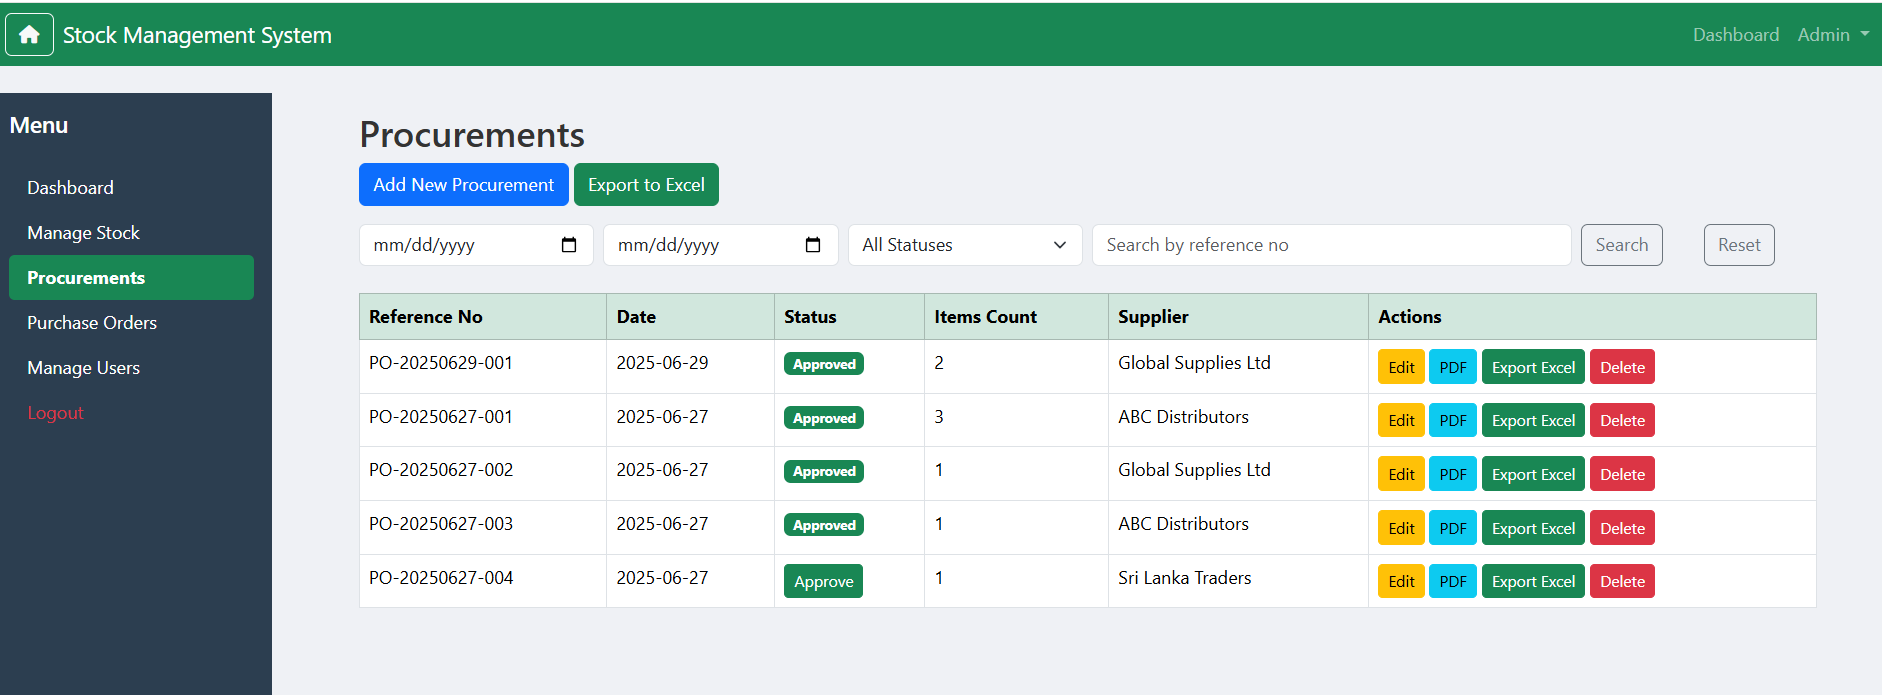
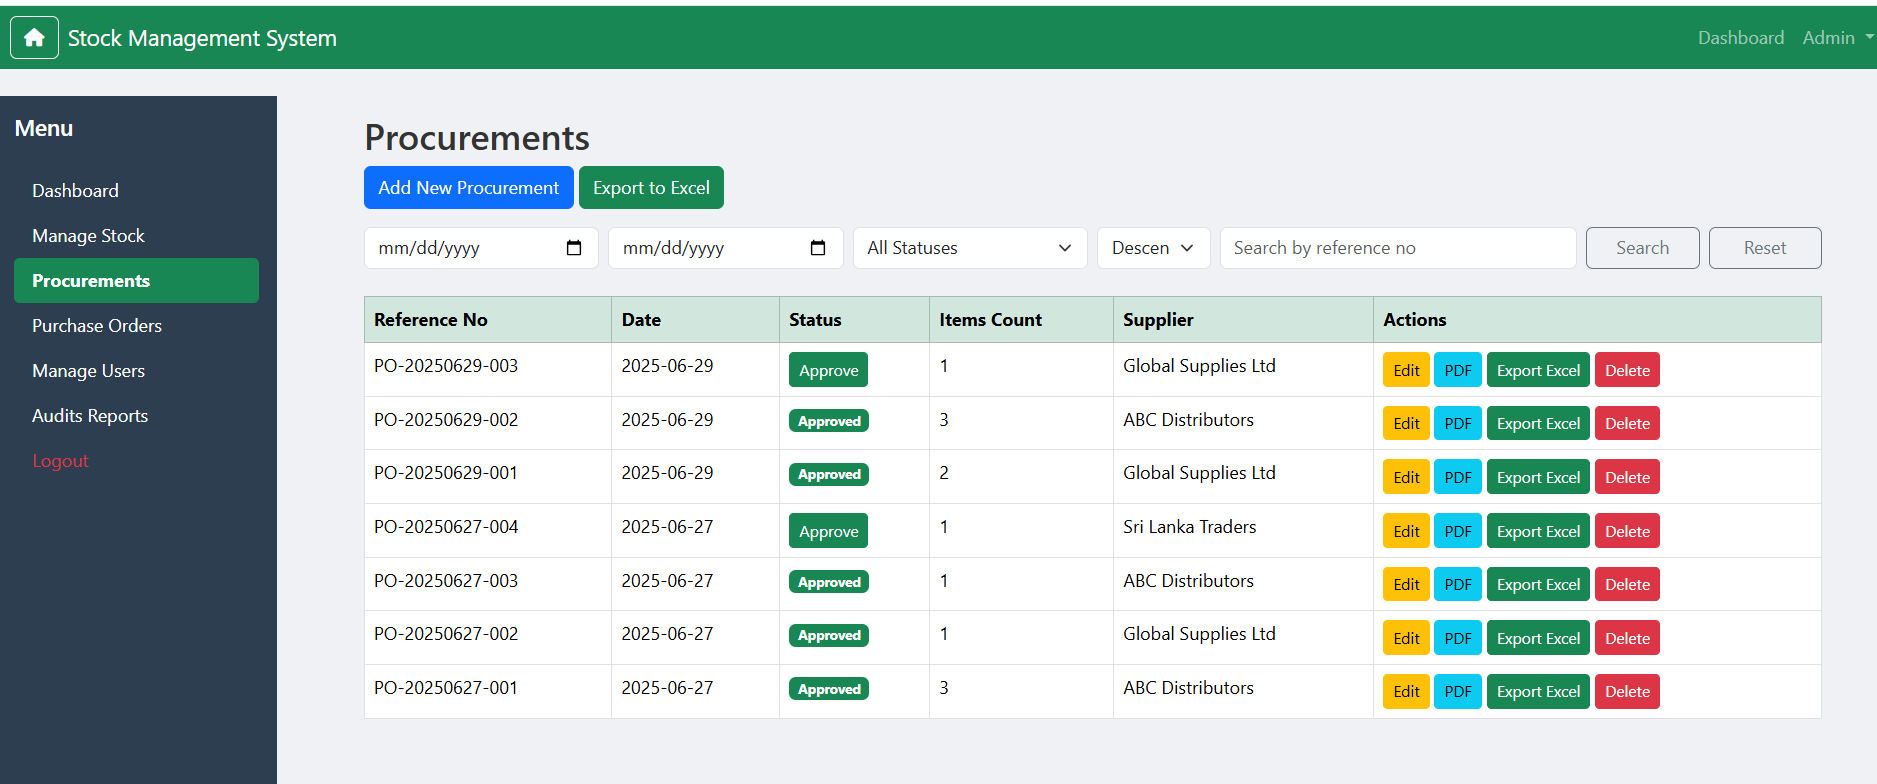
readme file add

diff --git a/resources/views/procurements/index.blade.php b/resources/views/procurements/index.blade.php
@@ -5,7 +5,7 @@
     <h2>Procurements</h2>
 
     <a href="{{ route('procurements.create') }}" class="btn btn-primary mb-3">Add New Procurement</a>
-    <a href="{{ route('procurements.export.excel') }}" class="btn btn-success mb-3">Export to Excel</a>
+    <a href="{{ route('procurements.export.excel', request()->query()) }}" class="btn btn-success mb-3">Export to Excel</a>
 
     @if(session('success'))
         <div class="alert alert-success">{{ session('success') }}</div>
@@ -29,15 +29,22 @@
             </select>
         </div>
 
-            <div class="col-md-4">
+        <div class="col-md-1">
+            <select name="sort_dir" id="sort_dir" class="form-select">
+                <option value="desc" {{ request('sort_dir') == 'desc' ? 'selected' : '' }}>Descending</option>
+                <option value="asc" {{ request('sort_dir') == 'asc' ? 'selected' : '' }}>Ascend</option>
+           </select>
+        </div>
+
+            <div class="col-md-3">
             <input type="text" name="search" class="form-control" placeholder="Search by reference no" value="{{ request('search') }}">
         </div>
 
-        <div class="col-md-1">
+        <div class="col-md-1 d-grid">
             <button type="submit" class="btn btn-outline-secondary">Search</button>
         </div>
 
-        <div class="col-md-1">
+        <div class="col-md-1 d-grid">
             <a href="{{ route('procurements.index') }}" class="btn btn-outline-secondary">Reset</a>
         </div>
     </form>
@@ -103,7 +110,7 @@
 @push('scripts')
 <script>
     $(document).ready(function() {
-        $('#status').on('change', function() {
+        $('#status, #sort_dir').on('change', function() {
             $(this).closest('form').submit();
         });
 

diff --git a/app/Http/Controllers/ProcurementController.php b/app/Http/Controllers/ProcurementController.php
@@ -21,8 +21,10 @@ class ProcurementController extends Controller
         $status = $request->input('status');
         $startDate = $request->input('start_date');
         $endDate = $request->input('end_date');
+        $sort_by = $request->get('sort_by', 'created_at');
+        $sort_dir = $request->get('sort_dir', 'desc');
 
-        $procurements = $this->procurementService->searchAndPaginate($search, $perPage = 10, $status, $startDate, $endDate);
+        $procurements = $this->procurementService->searchAndPaginate($search, $perPage = 10, $status, $startDate, $endDate, $sort_by, $sort_dir);
 
         return view('procurements.index', compact('procurements', 'search', 'status', 'startDate', 'endDate'));
     }
@@ -98,9 +100,15 @@ class ProcurementController extends Controller
         return $pdf->download("procurements-{$procurement->reference_no}.pdf");
     }
 
-    public function exportExcel()
+    public function exportExcel(Request $request)
     {
-        $procurement = $this->procurementService->allProcurementWithItems();
+        $search = $request->input('search');
+        $status = $request->input('status');
+        $startDate = $request->input('start_date');
+        $endDate = $request->input('end_date');
+        $sort_by = $request->get('sort_by', 'created_at');
+        $sort_dir = $request->get('sort_dir', 'desc');
+        $procurement = $this->procurementService->searchAndPaginate($search, $perPage = null, $status, $startDate, $endDate, $sort_by, $sort_dir);
         $fileName = 'Procurement_' . now()->format('Ymdhis') . '.xlsx';
         return Excel::download(new ProcurementExport($procurement), $fileName);
     }

diff --git a/resources/views/audits/index.blade.php b/resources/views/audits/index.blade.php
@@ -12,13 +12,20 @@
             <input type="date" name="end_date" class="form-control" value="{{ request('end_date') }}" placeholder="End Date">
         </div>
 
-        <div class="col-md-2">
+        <div class="col-md-1">
             <select name="event" id="event" class="form-select">
                 <option value="">All Events</option>
                 <option value="created" {{ request('event') == 'created' ? 'selected' : '' }}>Created</option>
                 <option value="updated" {{ request('event') == 'updated' ? 'selected' : '' }}>Updated</option>
                 <option value="deleted" {{ request('event') == 'deleted' ? 'selected' : '' }}>Deleted</option>
             </select>
+        </div> 
+
+        <div class="col-md-1">
+            <select name="sort_dir" id="sort_dir" class="form-select">
+                <option value="desc" {{ request('sort_dir') == 'desc' ? 'selected' : '' }}>Descending</option>
+                <option value="asc" {{ request('sort_dir') == 'asc' ? 'selected' : '' }}>Ascend</option>
+           </select>
         </div>
         
         <div class="col-md-2">
@@ -73,7 +80,7 @@
 @push('scripts')
 <script>
     $(document).ready(function() {
-        $('#event').on('change', function() {
+        $('#event, #sort_dir').on('change', function() {
             $(this).closest('form').submit();
         });
 

diff --git a/app/Http/Controllers/StockItemController.php b/app/Http/Controllers/StockItemController.php
@@ -21,7 +21,10 @@ class StockItemController extends Controller
         $status = $request->input('status');
         $startDate = $request->input('start_date');
         $endDate = $request->input('end_date');
-        $items = $this->service->searchAndPaginate($search, $perPage = 10, $status, $startDate, $endDate);
+        $sort_by = $request->get('sort_by', 'created_at');
+        $sort_dir = $request->get('sort_dir', 'desc');
+
+        $items = $this->service->searchAndPaginate($search, $perPage = 10, $status, $startDate, $endDate, $sort_by, $sort_dir);
         return view('stock.index', compact('items', 'search', 'startDate', 'endDate', 'status'));
     }
 
@@ -79,7 +82,9 @@ class StockItemController extends Controller
         $status = $request->input('status');
         $startDate = $request->input('start_date');
         $endDate = $request->input('end_date');
-        $items = $this->service->searchAndPaginate($search, $perPage = 10, $status, $startDate, $endDate);
+        $sort_by = $request->get('sort_by', 'created_at');
+        $sort_dir = $request->get('sort_dir', 'desc');
+        $items = $this->service->searchAndPaginate($search, $perPage = null, $status, $startDate, $endDate, $sort_by, $sort_dir);
         return Excel::download(new StockItemsExport($items), 'stock_items_' . now()->format('Ymd_His') . '.xlsx');
     }
 

diff --git a/resources/views/stock/index.blade.php b/resources/views/stock/index.blade.php
@@ -31,7 +31,15 @@
                 <option value="2" {{ request('status') == '2' ? 'selected' : '' }}>Out of Stock</option>
             </select>
         </div>
-        <div class="col-md-4">
+
+        <div class="col-md-1">
+            <select name="sort_dir" id="sort_dir" class="form-select">
+                <option value="desc" {{ request('sort_dir') == 'desc' ? 'selected' : '' }}>Descending</option>
+                <option value="asc" {{ request('sort_dir') == 'asc' ? 'selected' : '' }}>Ascend</option>
+           </select>
+        </div>
+
+        <div class="col-md-3">
             <input type="text" name="search" value="{{ $search }}" class="form-control" placeholder="Search by name or code">
         </div>
         <div class="col-md-1 d-grid">
@@ -110,7 +118,7 @@
 @push('scripts')
 <script>
     $(document).ready(function() {
-        $('#status').on('change', function() {
+        $('#status, #sort_dir').on('change', function() {
             $(this).closest('form').submit();
         });
 

diff --git a/app/Repositories/Eloquent/ProcurementRepository.php b/app/Repositories/Eloquent/ProcurementRepository.php
@@ -64,7 +64,7 @@ class ProcurementRepository implements ProcurementRepositoryInterface
         Procurement::destroy($id);
     }
 
-    public function searchAndPaginate(?string $search = null, int $perPage = 10, $status = null, $startDate = null, $endDate = null)
+    public function searchAndPaginate(?string $search = null, $perPage = null, $status = null, $startDate = null, $endDate = null, $sort_by = null, $sort_dir = null)
     {
         $query = Procurement::with('items.stockItem', 'supplier');
 
@@ -84,7 +84,8 @@ class ProcurementRepository implements ProcurementRepositoryInterface
             $query->whereDate('procurement_date', '<=', $endDate);
         }
 
-        return $query->orderBy('procurement_date', 'desc')->paginate($perPage);
+        $query->orderBy($sort_by, $sort_dir);
+        return !empty($perPage) ? $query->paginate($perPage) : $query->get();
     }
 
     public function getAllSuppliers()

diff --git a/app/Repositories/Eloquent/StockItemRepository.php b/app/Repositories/Eloquent/StockItemRepository.php
@@ -36,7 +36,7 @@ class StockItemRepository implements StockItemRepositoryInterface
         return StockItem::destroy($id);
     }
 
-    public function searchAndPaginate(?string $search = null, int $perPage = 10, $status = null, $startDate = null, $endDate = null)
+    public function searchAndPaginate(?string $search = null, $perPage = null, $status = null, $startDate = null, $endDate = null, $sort_by = 'created_at', $sort_dir = 'desc')
     {
         $query = StockItem::query();
 
@@ -57,6 +57,7 @@ class StockItemRepository implements StockItemRepositoryInterface
                 $query->whereDate('created_at', '<=', $endDate);
             });
 
-        return $query->orderBy('created_at', 'desc')->paginate($perPage);
+        $query->orderBy($sort_by, $sort_dir);
+        return !empty($perPage) ? $query->paginate($perPage) : $query->get();
     }
 }

diff --git a/app/Services/StockItemService.php b/app/Services/StockItemService.php
@@ -33,9 +33,9 @@ class StockItemService
         return $this->stockRepo->delete($id);
     }
 
-    public function searchAndPaginate(?string $search = null, int $perPage = 10, $status = null, $startDate = null, $endDate = null)
+    public function searchAndPaginate(?string $search = null, $perPage = null, $status = null, $startDate = null, $endDate = null, $sort_by = null, $sort_dir = null)
     {
-        return $this->stockRepo->searchAndPaginate($search, $perPage, $status, $startDate, $endDate);
+        return $this->stockRepo->searchAndPaginate($search, $perPage, $status, $startDate, $endDate, $sort_by, $sort_dir);
     }
 
     public function find($id)

diff --git a/app/Services/ProcurementService.php b/app/Services/ProcurementService.php
@@ -41,9 +41,9 @@ class ProcurementService
         $this->repo->delete($id);
     }
 
-    public function searchAndPaginate(?string $search = null, int $perPage = 10, $status = null, $startDate = null, $endDate = null)
+    public function searchAndPaginate(?string $search = null, $perPage = null, $status = null, $startDate = null, $endDate = null, $sort_by = null, $sort_dir = null)
     {
-        return $this->repo->searchAndPaginate($search, $perPage, $status, $startDate, $endDate);
+        return $this->repo->searchAndPaginate($search, $perPage, $status, $startDate, $endDate, $sort_by, $sort_dir);
     }
 
     public function getAllSuppliers()

diff --git a/app/Repositories/Interfaces/ProcurementRepositoryInterface.php b/app/Repositories/Interfaces/ProcurementRepositoryInterface.php
@@ -9,7 +9,7 @@ interface ProcurementRepositoryInterface
     public function updateProcurement($id, array $data, array $items);
     public function findWithItems($id);
     public function delete($id);
-    public function searchAndPaginate(?string $search = null, int $perPage = 10, $status = null, $startDate = null, $endDate = null);
+    public function searchAndPaginate(?string $search = null, $perPage = null, $status = null, $startDate = null, $endDate = null, $sort_by = null, $sort_dir = null);
     public function getAllSuppliers();
     public function getAllStockItem();
     public function allProcurementWithItems();

diff --git a/app/Repositories/Interfaces/StockItemRepositoryInterface.php b/app/Repositories/Interfaces/StockItemRepositoryInterface.php
@@ -8,5 +8,5 @@ interface StockItemRepositoryInterface {
     public function create(array $data);
     public function update($id, array $data);
     public function delete($id);
-    public function searchAndPaginate(?string $search = null, int $perPage = 10, $status = null, $startDate = null, $endDate = null);
+    public function searchAndPaginate(?string $search = null, $perPage = null, $status = null, $startDate = null, $endDate = null, $sort_by = null, $sort_dir = null);
 }

diff --git a/app/Http/Controllers/AuditLogController.php b/app/Http/Controllers/AuditLogController.php
@@ -31,7 +31,10 @@ class AuditLogController extends Controller
             $query->where('auditable_type', 'like', '%' . $request->model . '%');
         }
 
-        $audits = $query->latest()->paginate(10);
+        $sortBy = $request->get('sort_by', 'created_at');
+        $sortDir = $request->get('sort_dir', 'desc');
+
+        $audits = $query->orderBy($sortBy, $sortDir)->paginate(10);
 
         return view('audits.index', compact('audits'));
     }
